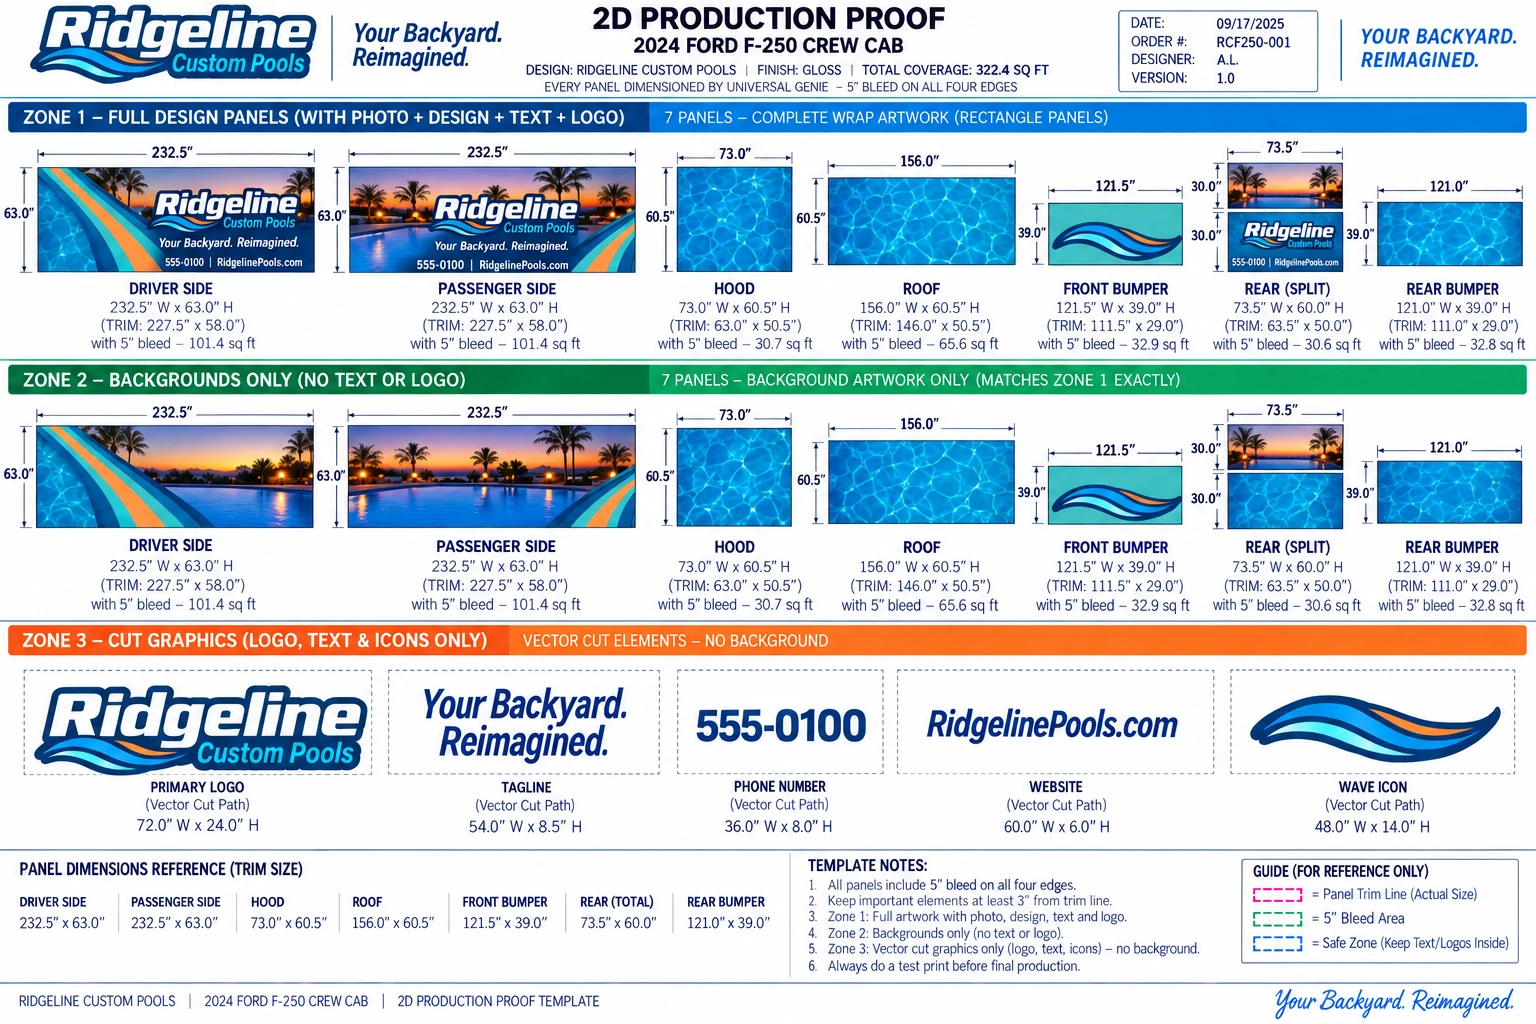
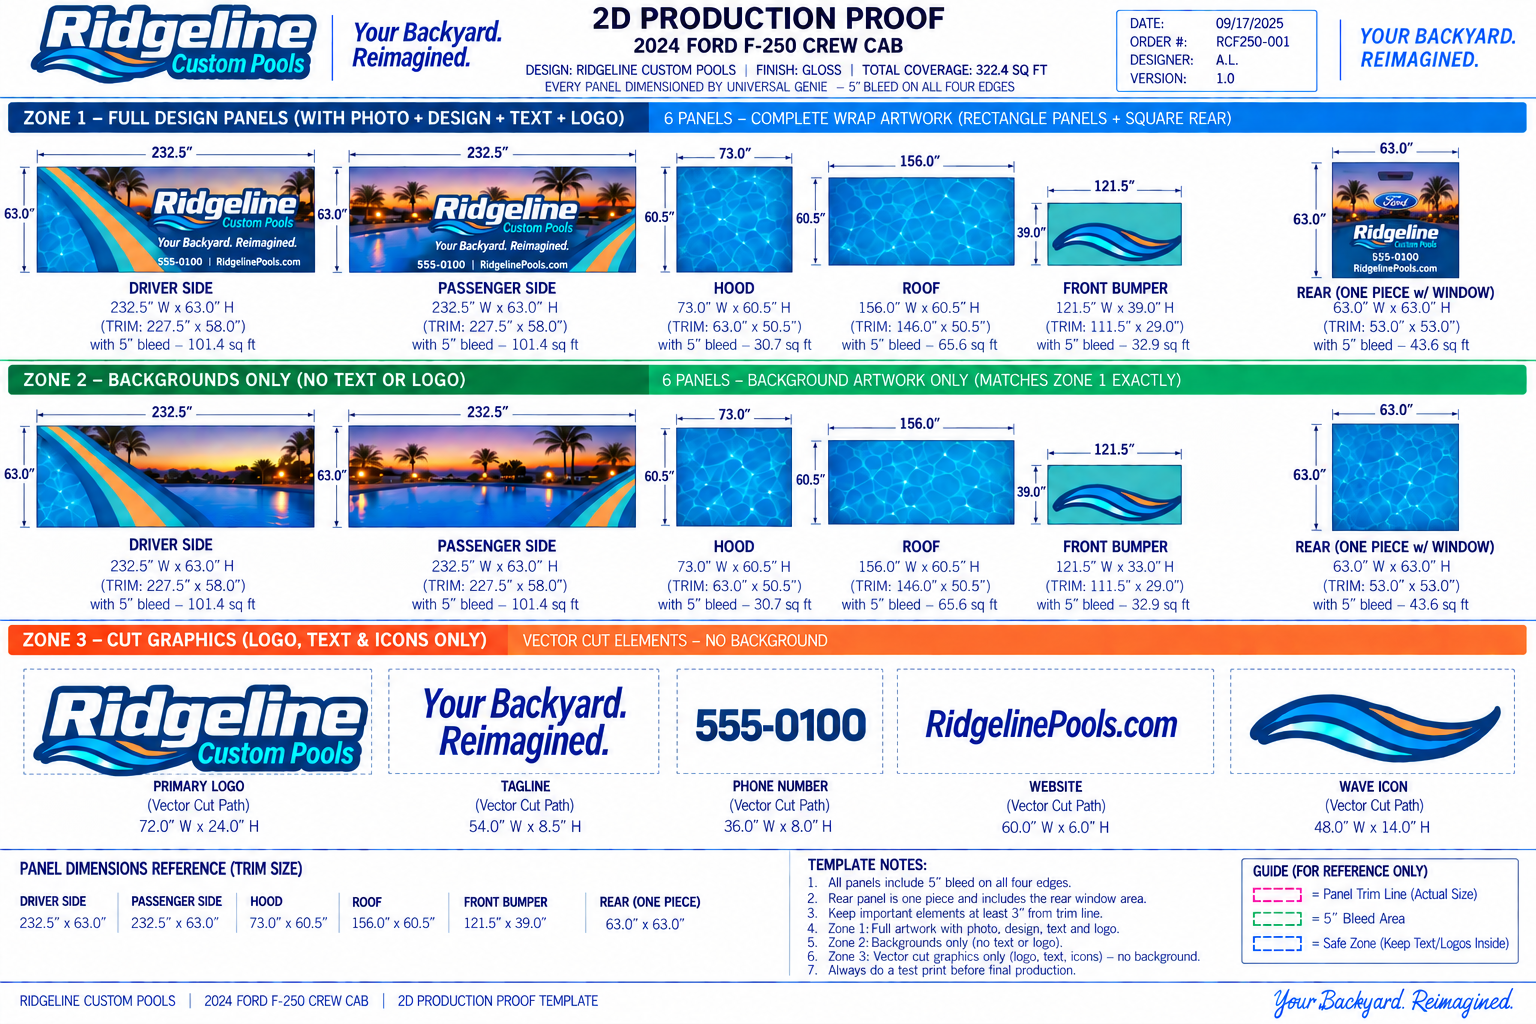
Name the private-request rejection; six-panel gold sheet with the rear as one piece (#592)
* VehiclePro owner spec: the 3-zone proof, 7 panels, 7 angles, dictated 2026-09-21

Captures the owner's dictated definition of "working" for VehiclePro on
os.designproai.com, so it is never asked for again.

Call 1 is the Production Panel Proof in three zones, taken from the owner's
Ridgeline Custom Pools / 2024 Ford F-250 reference sheet: Zone 1 full design
panels, Zone 2 the same artwork with branding absent, Zone 3 the branding as
vector cut paths. Seven panels, not six -- the sheet splits the rear into
Rear (split) and Rear Bumper. Every panel dimensioned by Universal GENIE with
a 5" bleed on all four edges; the header, callouts, legend and totals are
drawn by code, never prompted.

Call 2 is the 3D vehicle proof, all seven angles, shown the Call 1 proof so it
reproduces that design rather than inventing one, each side revealed to the
customer as it lands.

Records the open dimension-timing decision rather than settling it: resolving
the vehicle's true per-side dimensions has to precede Call 1 or the zone
aspect ratios are wrong and no later step can undo it, while stamping them is
a drawing job that belongs to code. Also records that SURFACE_KEYS is frozen
at six in seven runtime files against a seven-panel spec.

Claude-Session: https://claude.ai/code/session_014qfrFLo4t3CKA9EgdQzDq3

* Six panels, not seven: the rear is one design including the back window

Owner ruling, 2026-09-21: "that's the rear design which includes back window so
[…]

diff --git a/docs/VEHICLEPRO-OWNER-SPEC-2026-09-21.md b/docs/VEHICLEPRO-OWNER-SPEC-2026-09-21.md
@@ -1,0 +1,219 @@
+# 🔒 VEHICLEPRO — OWNER'S SPEC, DICTATED 2026-09-21
+
+**This is how OS.DesignProAI MUST work.** Dictated by Trish. It is the
+DEFINITION OF "WORKING" for the VehiclePro product on `os.designproai.com`.
+
+**If any other doc in `docs/` conflicts with this file, THIS WINS.** Do not
+re-derive it, do not "improve" it, do not substitute a reading of the code for
+it. The owner has given this spec repeatedly across sessions; it is written
+here so it is never asked for again.
+
+**What this file is NOT:** it is not a claim that any of it is built. It is the
+target. Every section below is a SPEC line, not a status line. Verify against
+the running system before reporting anything as done — see
+`CLAUDE.md` → verification table.
+
+---
+
+## The flow, end to end
+
+### CALL 1 — PRODUCTION PANEL PROOF (3 ZONES)
+
+- The **first call** produces the **Production Panel Proof**, laid out in
+  **3 zones**. Reference artifact: Ridgeline Custom Pools / 2024 Ford F-250 Crew
+  Cab, "2D PRODUCTION PROOF" sheet.
+- It must run through a **studio edge-function template**, wired so **Gemini 3
+  sees it at the system level** (system-instruction wiring, not a user-turn
+  prompt).
+- **The moment Call 1 is generated it is SHOWN TO THE CUSTOMER.** No waiting on
+  Call 2, no hidden intermediate state. Call 1 is a customer-visible artifact.
+- Call 1 is the **source of truth for every panel downstream.** Panels are
+  extracted from it — never from an AI-generated flat artboard, never from a
+  crop of a 3D vehicle render.
+
+#### The three zones (from the owner's reference sheet)
+
+| Zone | Contents | Count | Rule |
+|---|---|---|---|
+| **ZONE 1 — FULL DESIGN PANELS** | photo + design + text + logo | **6 panels** | Complete wrap artwork, rectangle panels |
+| **ZONE 2 — BACKGROUNDS ONLY** | background artwork, **no text or logo** | **6 panels** | **Must match Zone 1 EXACTLY** — same artwork, branding removed |
+| **ZONE 3 — CUT GRAPHICS** | logo, tagline, phone, website, icon | vector elements | **Vector cut paths, NO background** |
+
+Zone 2 is not a separate design. It is Zone 1 with the branding absent — the
+same pixels underneath. It must be authored logo-free, never stripped or healed
+out of Zone 1 (healing smears).
+
+Zone 3 elements are the real branding assets lifted as cut-ready vector paths,
+each with its own dimensions (e.g. PRIMARY LOGO 72.0" W x 24.0" H, TAGLINE
+54.0" x 8.5", PHONE 36.0" x 8.0", WEBSITE 60.0" x 6.0", ICON 48.0" x 14.0").
+
+#### The panels — SIX surfaces. Owner ruling, 2026-09-21.
+
+**driver · passenger · hood · roof · front · rear**
+
+`SURFACE_KEYS` is frozen at these six in seven runtime files, and that is
+**CORRECT**. Do not "fix" it to seven.
+
+**Why the reference sheet shows seven tiles, and why the system is still six.**
+The Ridgeline reference is a **2024 Ford F-250 Crew Cab — a PICKUP.** A pickup
+physically has a separate tailgate and rear bumper, so its rear splits into
+*Rear (split)* 73.5" x 60.0" and *Rear Bumper* 121.0" x 39.0". That is a BODY
+STYLE artifact, not the universal panel model.
+
+Owner, ruling on exactly this question: *"that's the rear design which includes
+back window so don't split, keep at 6 — my system got messed up because it was
+a truck."*
+
+**THE RULE: the REAR panel is ONE design that INCLUDES THE BACK WINDOW.**
+Panel count is a property of the body style, not a universal constant. A
+seven-tile pickup sheet is a correct rendering of a pickup; it is not a
+seven-surface system.
+
+A future session that opens the Ridgeline PNG will re-derive "seven panels"
+from it, exactly as this document did on its first draft. It is wrong. Six.
+
+Every panel is **dimensioned by Universal GENIE** and carries a **5" bleed on
+all four edges**. Each panel shows, on the sheet: overall W x H, the TRIM size
+in parentheses, and the square footage with bleed. Example row from the
+reference (2024 Ford F-250 Crew Cab):
+
+| Panel | Size (with bleed) | Trim | Sq ft |
+|---|---|---|---|
+| Driver Side | 232.5" x 63.0" | 227.5" x 58.0" | 101.4 |
+| Passenger Side | 232.5" x 63.0" | 227.5" x 58.0" | 101.4 |
+| Hood | 73.0" x 60.5" | 63.0" x 50.5" | 30.7 |
+| Roof | 156.0" x 60.5" | 146.0" x 50.5" | 65.6 |
+| Front Bumper | 121.5" x 39.0" | 111.5" x 29.0" | 32.9 |
+| Rear (split) | 73.5" x 60.0" | 63.5" x 50.0" | 30.6 |
+| Rear Bumper | 121.0" x 39.0" | 111.0" x 29.0" | 32.8 |
+
+The sheet also carries a header block (DATE, ORDER #, DESIGNER, VERSION), the
+design name / finish / **TOTAL COVERAGE in SQ FT**, a **PANEL DIMENSIONS
+REFERENCE (TRIM SIZE)** strip, TEMPLATE NOTES, and a GUIDE legend
+(panel trim line / 5" bleed area / safe zone). **All of that is DRAWN BY CODE,
+never prompted** — an AI asked to letter a dimension will invent one.
+
+Safe-zone rule from the sheet: keep important elements **at least 3" from the
+trim line**.
+
+### VEHICLE DIMENSIONS — position in the chain (OPEN DECISION, see below)
+
+- The system pulls the dimensions for **the vehicle the customer enters**.
+- Originally specified at **Call 1**.
+- Owner's revised instinct: **it may be smarter to attach dimensions at Call 2**
+  (the 3D vehicle proof).
+- **This is not yet decided.** See "Open decisions" at the end of this file
+  before implementing either way.
+
+### CALL 1 → CALL 2 — must route through our own design stack
+
+- The hand-off from Call 1 to Call 2 **must use our suite of custom design edge
+  functions.** Not a generic re-prompt, not a third-party pass.
+
+### CALL 2 — 3D VEHICLE PROOF, SIDES 1–7
+
+- Call 2 produces the **photorealistic 3D vehicle proof**.
+- **The Production Panel Proof from Call 1 is shown to the AI on Call 2**, so it
+  can quickly and accurately wrap the photoreal vehicle with the design that
+  already exists. The 3D proof reproduces Call 1's design — it does not invent a
+  new one.
+- **ALL SIDES MUST BE GENERATED — 7 ANGLES.** Not a hero plus a few. Seven.
+  Note the seven here is CAMERA ANGLES, which is a different seven from the
+  panel count (six). Close-Up shares the Driver surface. Do not conflate them.
+- **Sides 1–7 generate in PARALLEL.**
+- **As each side finishes it is automatically shown to the customer.** Progressive
+  reveal — the customer does not wait for all 7.
+
+### ATLAS TOPOLOGY PROOF — built by the DAG engine
+
+- Once all 7 views are generated in parallel, the system — **using our DAG
+  engineering** — creates the **ATLAS Topology Proof**.
+- ATLAS is built **from the Call 1 Production Panel Proof**, with a **5" bleed
+  added.**
+- ATLAS is NOT built from the 3D renders.
+
+### HAND-OFF — what goes where
+
+Three artifacts are sent to **PanelProStudio**:
+
+1. **ATLAS Topology Proof**
+2. **Production Panel Proof** (Call 1)
+3. **3D designs** (Call 2, sides 1–7)
+
+The **customer** is sent to **RevisionStudioIQ**.
+
+### REVISIONSTUDIOIQ — refine + entice
+
+- The customer can **refine the design** here.
+- The **right column** shows the **Production Panel Proof and the panels** —
+  this is the **ENTICE surface**, shown to make them want to buy.
+- **Under the panels** there is an **"Order Production Files" button.**
+
+### ON PURCHASE — paid path only
+
+- Once they buy, the **panels from ATLAS are processed by being UPSCALED.**
+- The customer is sent to the **GENIE Universal Panelizer progress page.**
+
+### HUMAN / AI FILE OUTPUT — the QC gate
+
+Our design team, per panel:
+
+1. **Reviews each panel file.**
+2. **Downloads the text overlays.**
+3. **Applies them to real templates to validate them.**
+4. **Check-marks quality approval.**
+
+Once the designer check-marks quality approval:
+
+- The system **stamps the proofs**.
+- The system **creates the ZIP file.**
+
+---
+
+## Open decisions — DO NOT implement past these without a ruling
+
+### 1. Dimensions at Call 1 or Call 2? (still open)
+
+Owner raised this and has not ruled. Engineering read, for the record:
+
+There are **two different things** being called "dimensions," and separating
+them probably dissolves the question:
+
+- **RESOLVING** the vehicle's true per-side dimensions (a deterministic lookup
+  against the vehicle the customer entered).
+- **STAMPING** the visible dimension callouts onto a proof.
+
+**Resolution must happen BEFORE Call 1 composes**, because Call 1's zone aspect
+ratios have to match the real panel aspect ratios. If Call 1 is composed at the
+wrong proportions, every panel extracted from it inherits distorted geometry and
+no downstream step can undo it.
+
+**Stamping can happen later, and should be DRAWN BY CODE, never prompted.** An
+AI asked to letter a dimension will invent a plausible one.
+
+So the recommendation is neither "Call 1" nor "Call 2" but **Call 0: a
+deterministic, zero-AI dimension resolve at intake**, consumed by Call 1 for
+geometry and by Call 2 for the stamp. Awaiting owner's ruling.
+
+### 2. The 3-zone layout reference image — RECEIVED 2026-09-21
+
+The owner's reference sheet (Ridgeline Custom Pools / 2024 Ford F-250 Crew Cab)
+was supplied and its zone breakdown is captured in the Call 1 section above.
+The matching Call 2 reference (photoreal driver-side F-150 in a white studio,
+wrap reproducing the Zone 1 driver panel exactly) was supplied at the same time.
+**Store both in the repo as the golden reference pair** so Call 1 and Call 2
+output can be diffed against them after every change.
+
+---
+
+## Invariants this spec inherits (do not violate)
+
+- **Panels come from the Call 1 Production Panel Proof, deterministically.**
+  Never from an AI-generated flat artboard. That is the source of "AI slop
+  panels."
+- **Nothing ships to the upscaler or to production before payment.** The entice
+  surface is pre-order; the upscale is post-purchase only.
+- **A vault flag is not a shipped pack.** Report status from the pack's own
+  per-side provenance, never from a `deterministic: true` flag sitting in a
+  table.
+- **Never state how long a wrap lasts** in anything AI writes.
